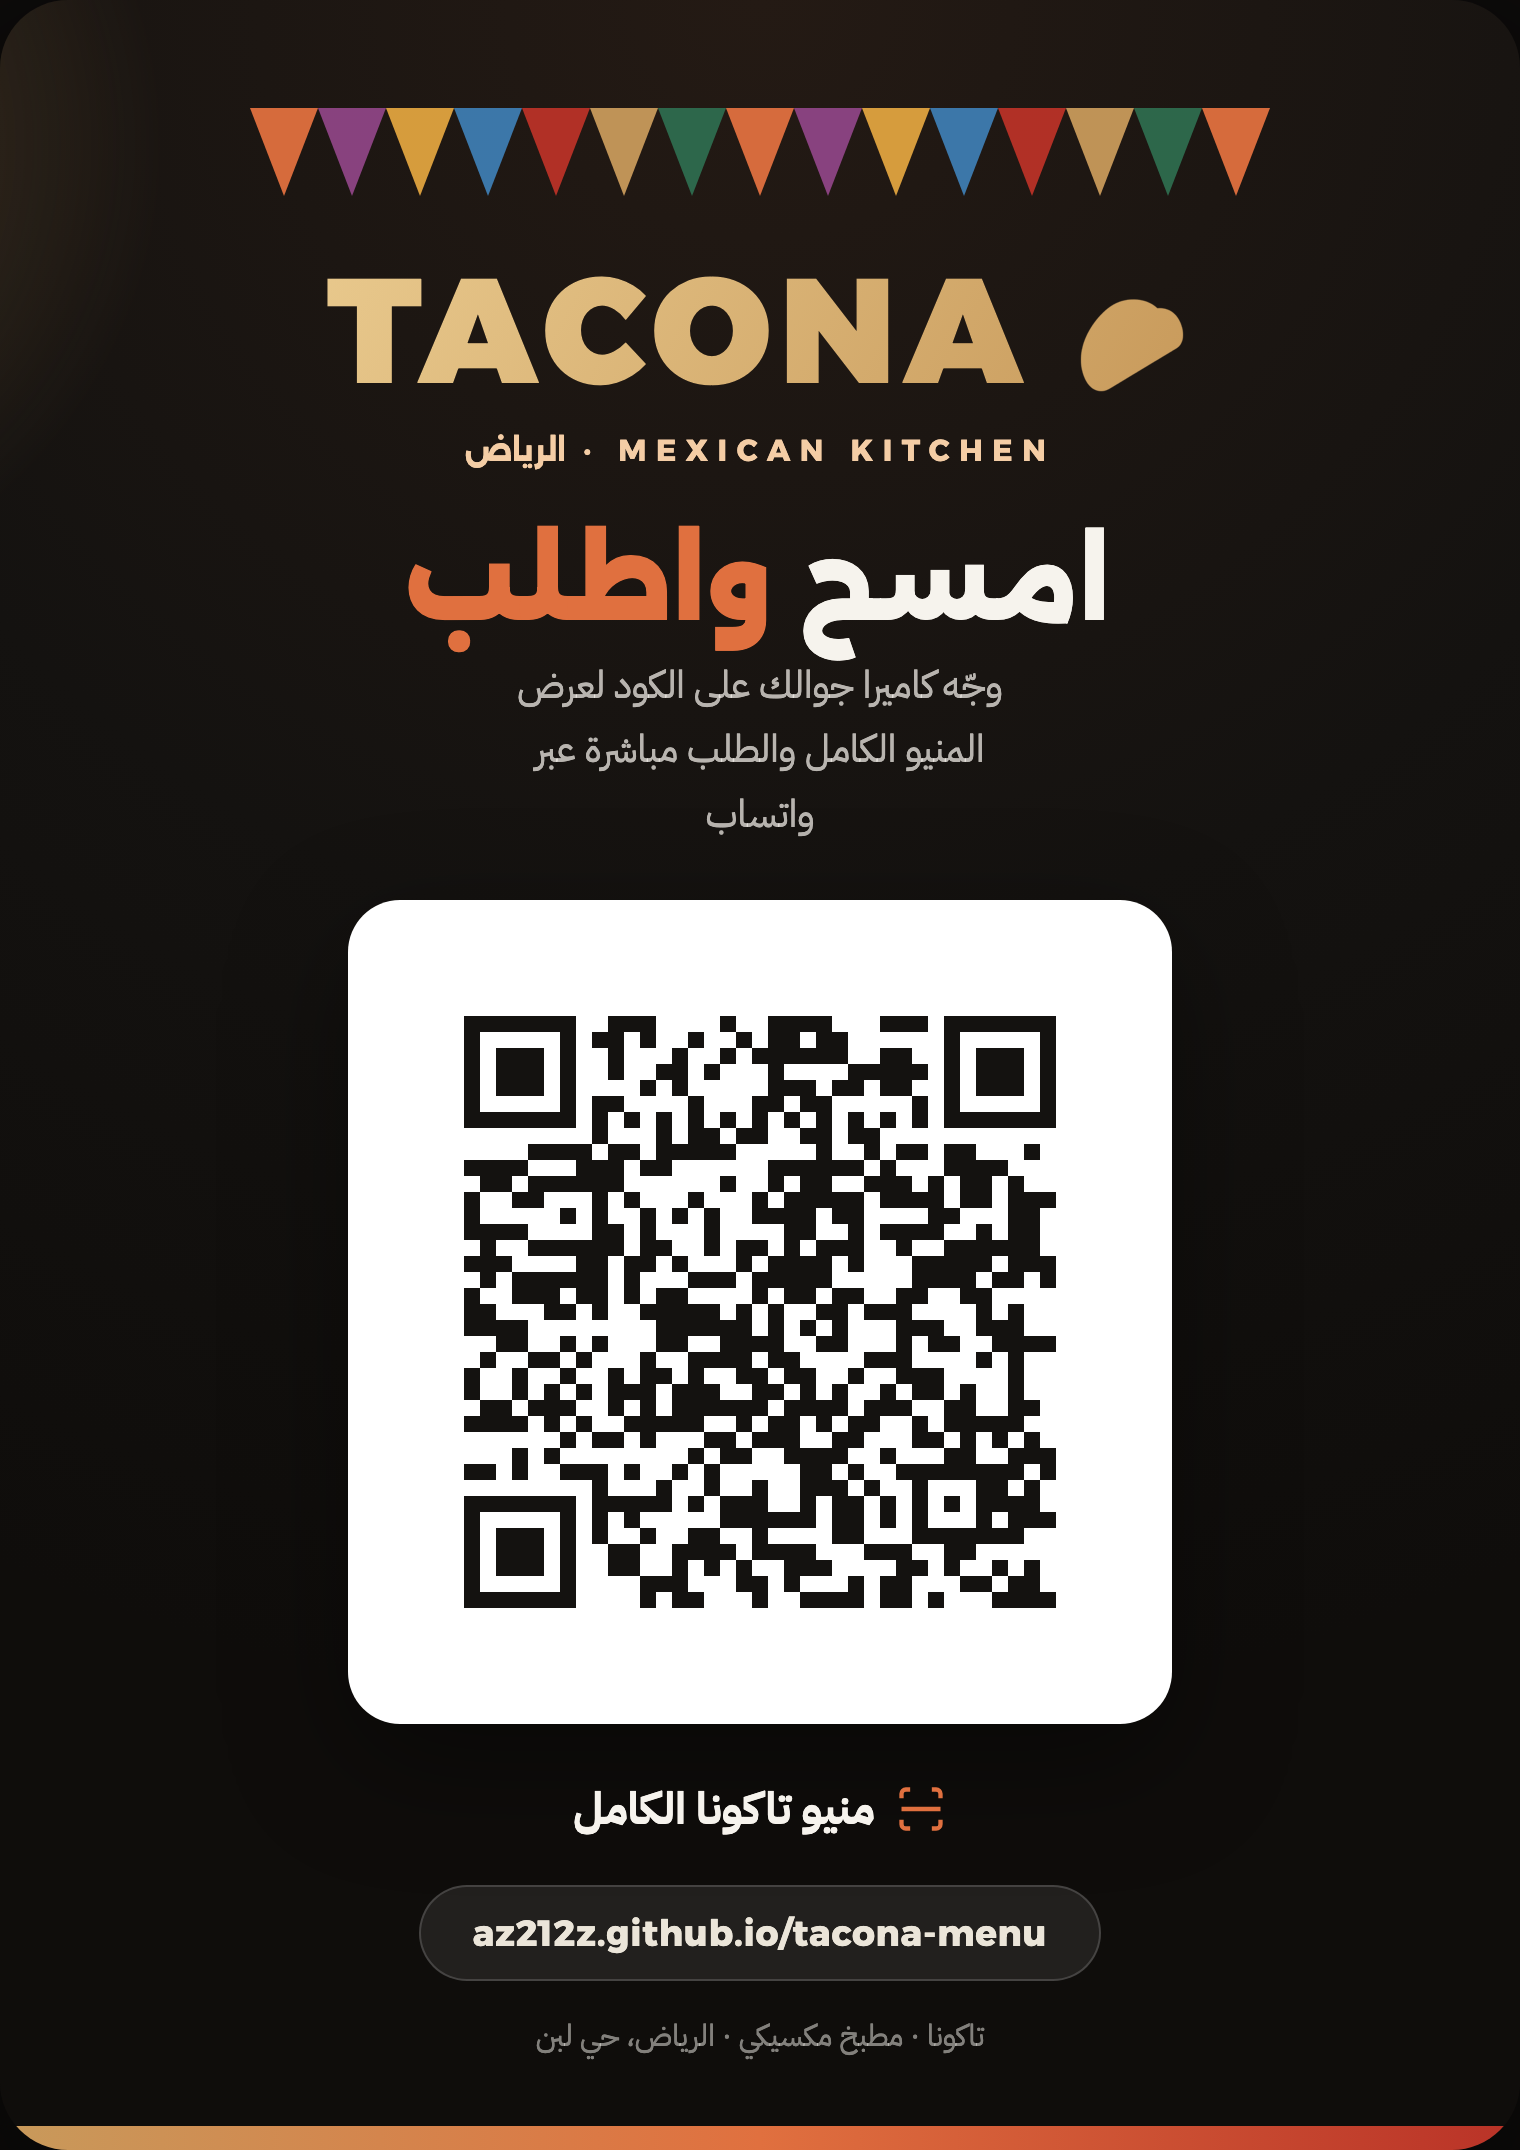
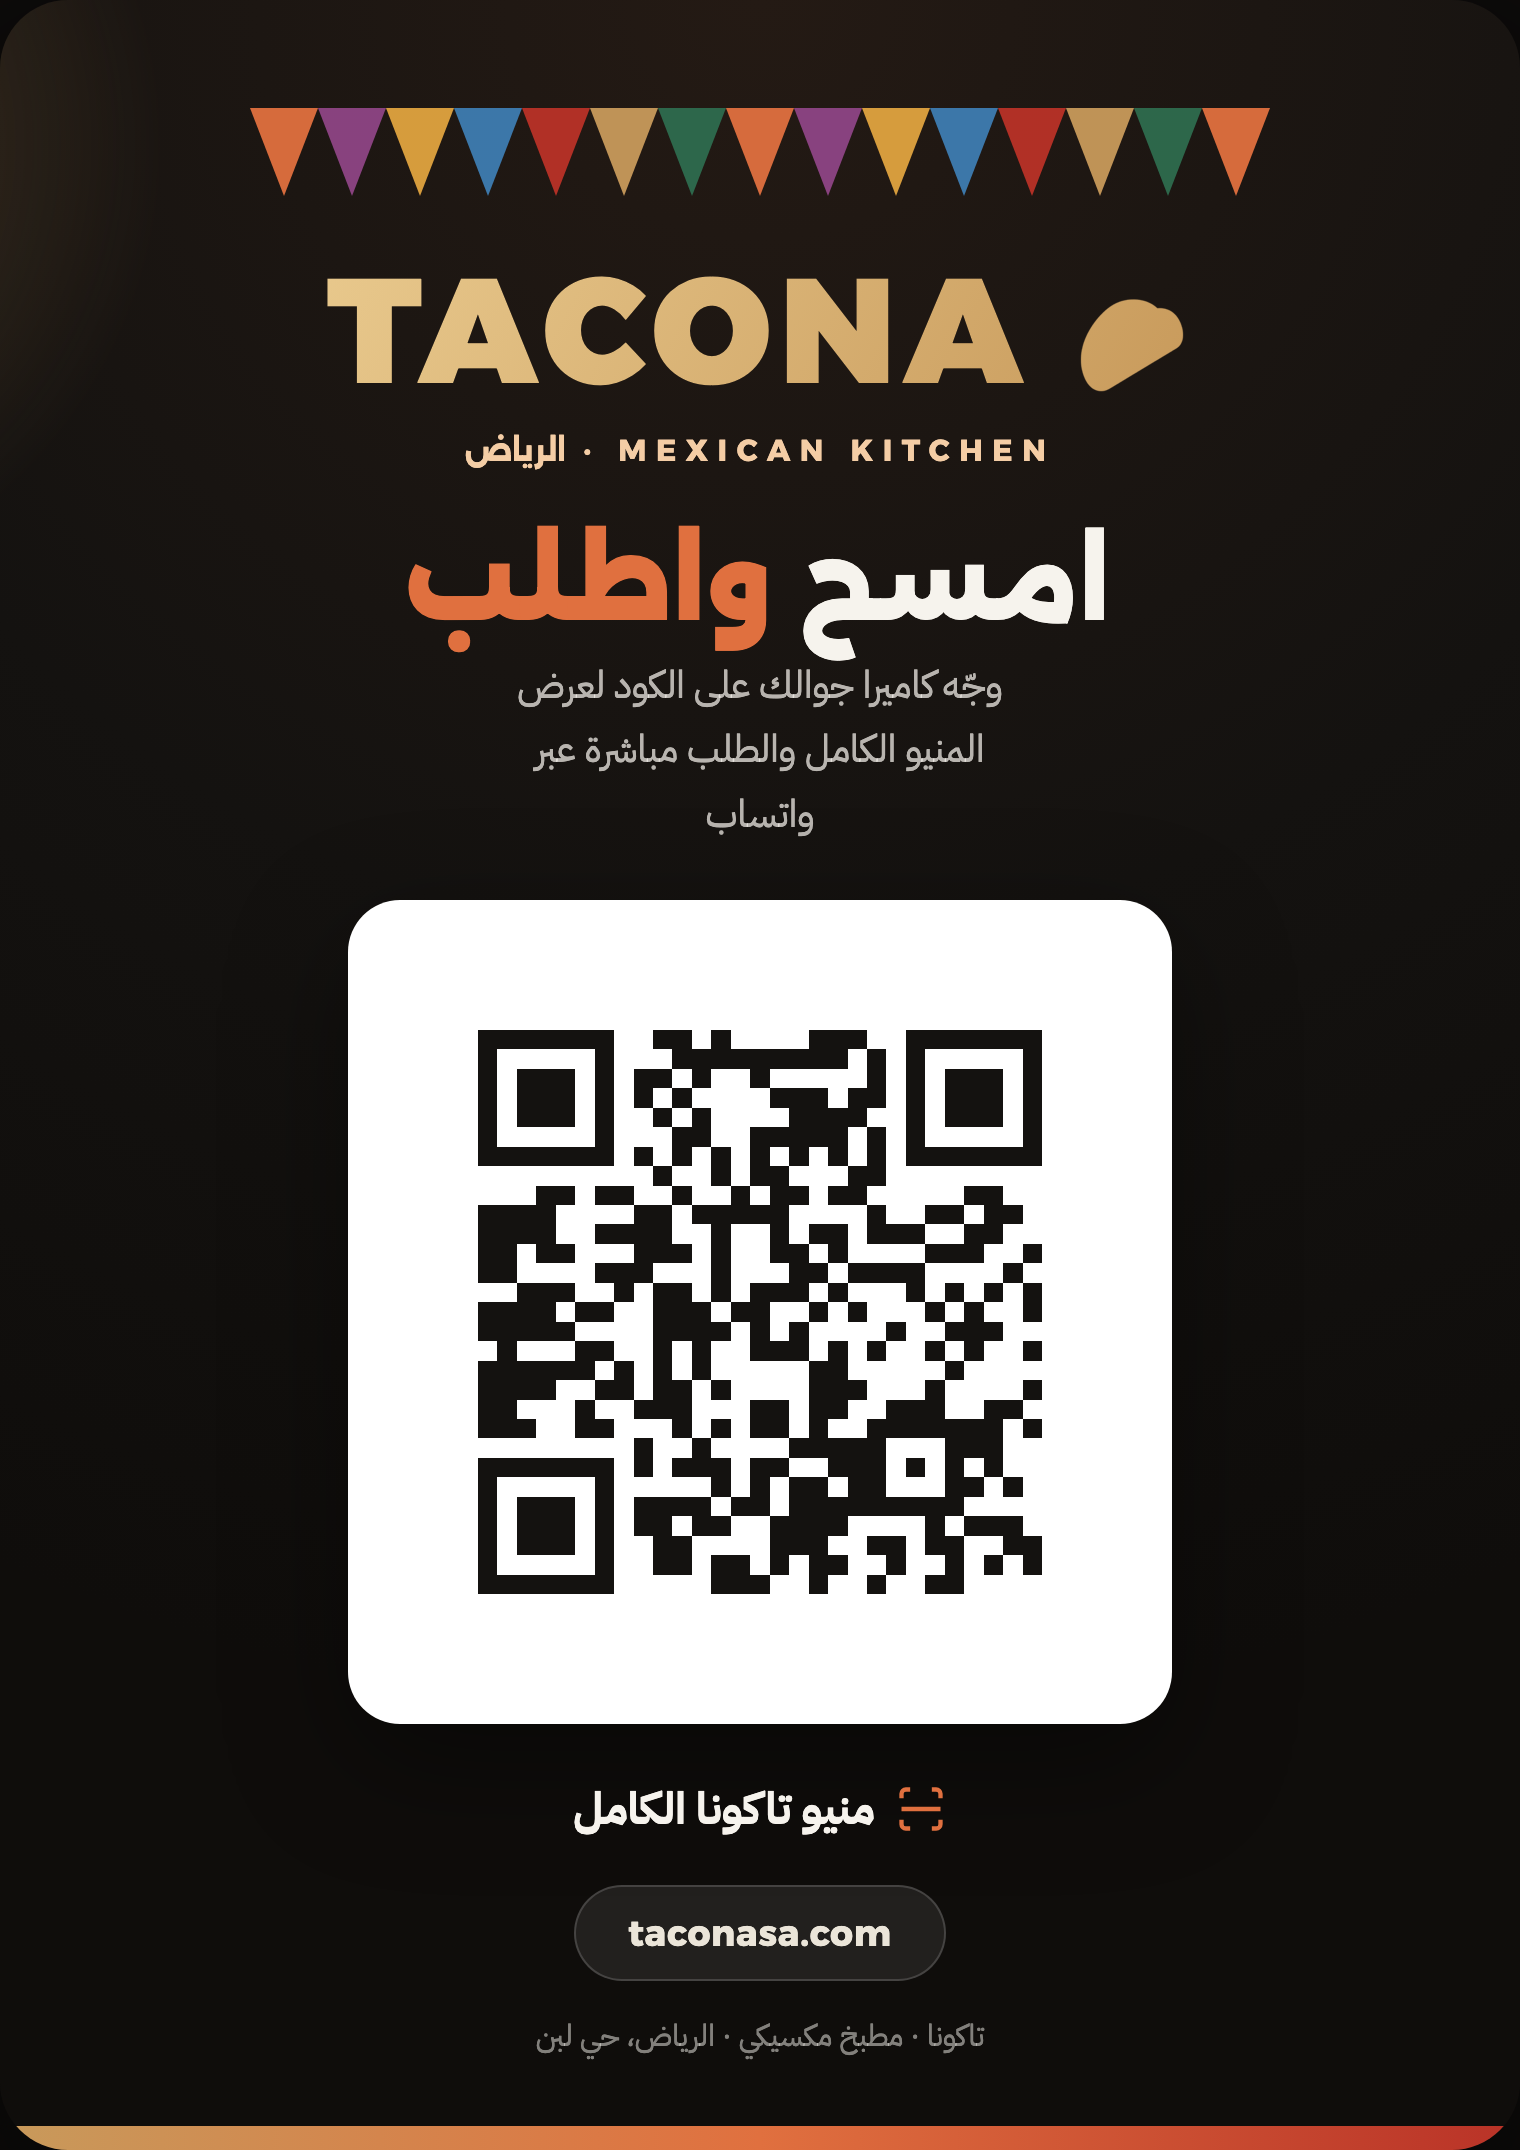
إعادة توليد كود QR والبطاقة على الدومين الجديد taconasa.com

Changed region(s): [[0.2783, 0.4674, 0.7112, 0.7479], [0.3092, 0.8726, 0.6803, 0.9037]]

diff --git a/qr-print/tacona-table-card.html b/qr-print/tacona-table-card.html
@@ -35,9 +35,9 @@ body{background:#0d0b0a;display:grid;place-items:center;min-height:100vh;font-fa
   <div class="eyebrow">Mexican Kitchen · الرياض</div>
   <div class="head">امسح <b>واطلب</b></div>
   <div class="sub">وجّه كاميرا جوالك على الكود لعرض المنيو الكامل والطلب مباشرة عبر واتساب</div>
[2 lines of base64/hex data omitted]
   <div class="scan"><svg viewBox="0 0 24 24"><path d="M3 7V5a2 2 0 0 1 2-2h2M17 3h2a2 2 0 0 1 2 2v2M21 17v2a2 2 0 0 1-2 2h-2M7 21H5a2 2 0 0 1-2-2v-2"/><path d="M3 12h18"/></svg> منيو تاكونا الكامل</div>
-  <div class="url">az212z.github.io/tacona-menu</div>
+  <div class="url">taconasa.com</div>
   <div class="foot">تاكونا · مطبخ مكسيكي · الرياض، حي لبن</div>
   <div class="bar"></div>
 </div>
